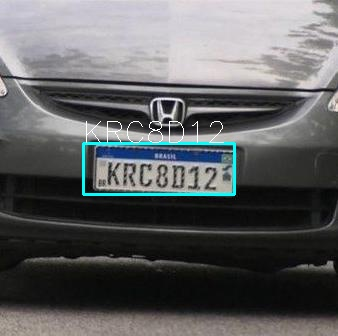
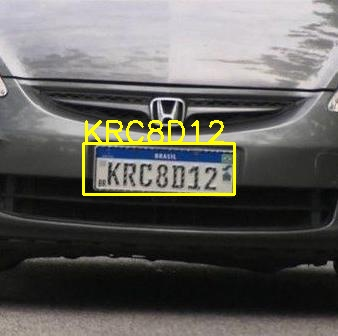
new imgs for README

Changed region(s): [[0.2367, 0.3571, 0.7101, 0.5952]]

diff --git a/test.py b/test.py
@@ -69,6 +69,7 @@ print('All done! Starting ALPR system...')
 
 try:
 	if not READ_ONLY:
+		print(INPUT_IMG)
 		frame = cv2.imread(INPUT_IMG)
 		 # Plate detection
 		yolo_frame = frame.copy()
@@ -90,8 +91,8 @@ try:
 	word = plate_reader.predict(pil_plate)
 	print('Found plate: {}'.format(word))
 	if(OUTPUT and not READ_ONLY):
-		frame = cv2.rectangle(frame, (x1-PADDING,y1-PADDING), (x2+PADDING,y2+PADDING), (255,255,0),thickness=2)
-		frame = cv2.putText(frame,word,(x1-2,y1-2), cv2.FONT_HERSHEY_SIMPLEX, 1,(255,255,255),1)
+		frame = cv2.rectangle(frame, (x1-PADDING,y1-PADDING), (x2+PADDING,y2+PADDING), (0,255,255),thickness=2)
+		frame = cv2.putText(frame,word,(x1-2,y1-2), cv2.FONT_HERSHEY_SIMPLEX, 1,(0,255,255),2)
 		outpath = os.path.join(OUTPUT,word+'.jpg')
 		cv2.imwrite(outpath, frame)
 
